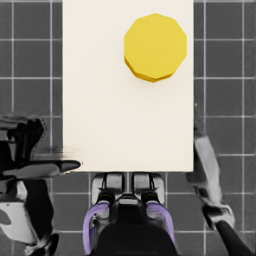
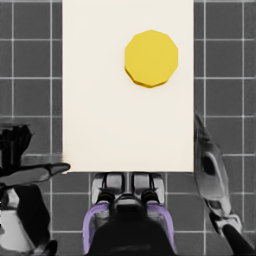
a

diff --git a/9/README.md b/9/README.md
@@ -76,11 +76,15 @@
     python eval_isaaclab_scene_gr1t2.py --model_path ../checkpoints/gr00t/checkpoint-3000
     ```
 
-    今回は、以下のようにロボットがうまく物を掴めない結果になった
+    > 現状のコードでは、シミュレーター起動後に GUIからロボットのカメラの回転角を (0.0, 0.0, -90)に手動で変更する必要あり
+    > <img width="500" alt="Image" src="https://github.com/user-attachments/assets/8a718584-814e-46ae-babd-1e6f655b4e76" />
 
-https://github.com/user-attachments/assets/e6e6c85f-d16f-4618-be92-6e7576f46eea
 
-    これは、学習用データセットのロボットとシミュレーター環境上のロボット（GR1T2）のロボットの種類が異なることが原因と考えられr。実際に学習用データセットにおける手の関節の次元数は 6 次元だが、シミュレーター環境上の GR1T2 ロボットの手の関節の次元数は 12 次元だった
+    今回は、以下のようにロボットがうまく物を掴めない結果になった。<br>
+    これは、学習用データセットのロボットとシミュレーター環境上のロボット（GR1T2）のロボットの種類が異なることが原因と考えられる。実際に学習用データセットにおける手の関節の次元数は 6 次元だが、シミュレーター環境上の GR1T2 ロボットの手の関節の次元数は 12 次元だった
+
+https://github.com/user-attachments/assets/6453bbf7-5f38-410a-9c55-8d06c762b4d1
+
 
 <!--
 1. pinocchio をインストールする
